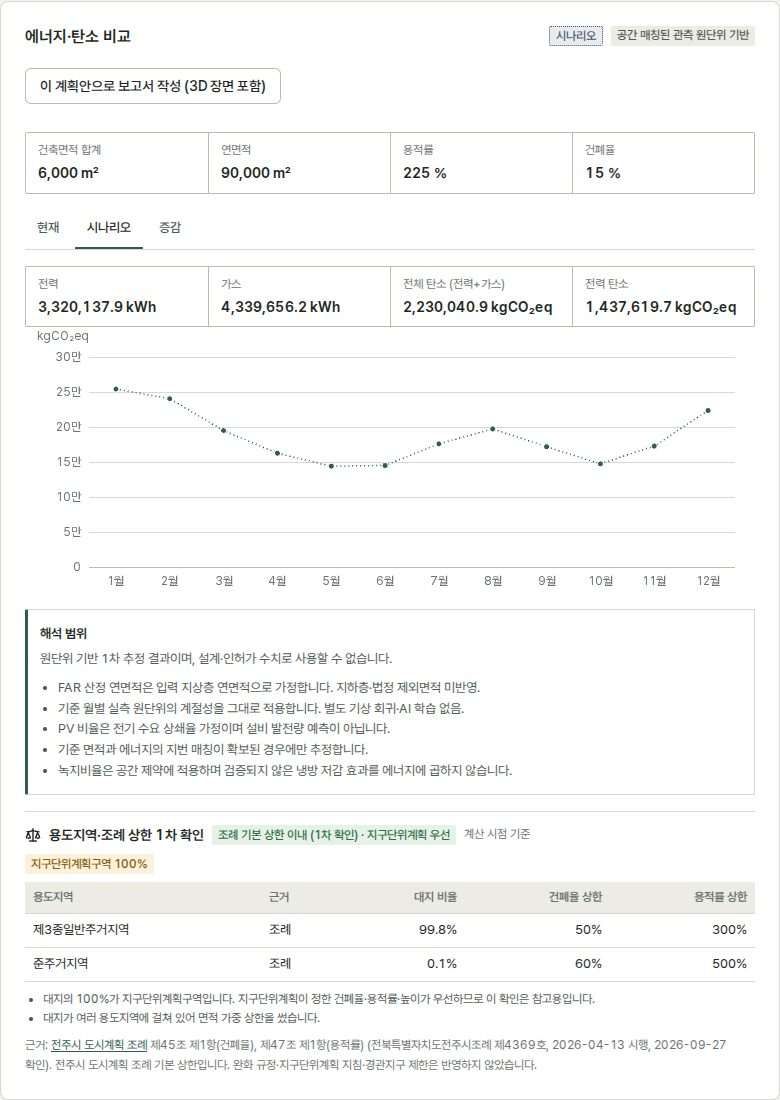
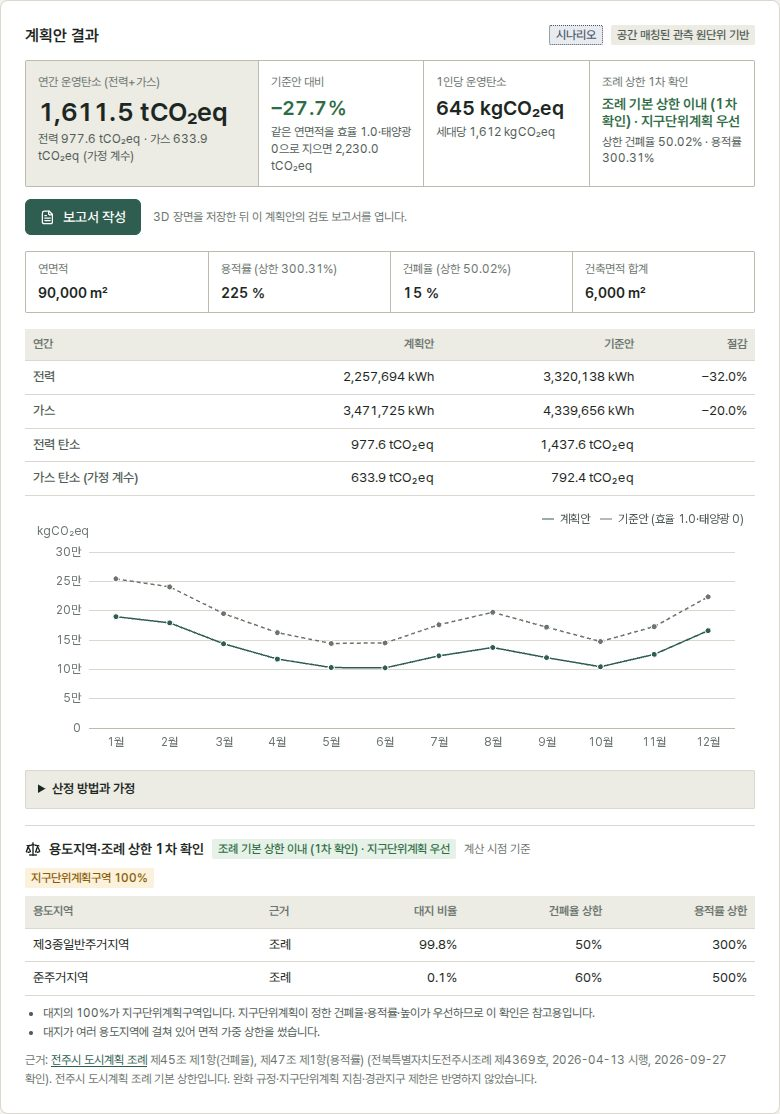
보고서 문장: 기준안과 같으면 '과 같습니다', 매뉴얼 그림(결과 패널·보고서·계획안 고르기·두 계획안) 교체, 10/14 PC 확인 기록
Claude-Session: https://claude.ai/code/session_01FHHEuZJMkY1PRrj63r7SZr

diff --git a/backend/app/reporting.py b/backend/app/reporting.py
@@ -141,7 +141,7 @@ def plan_sentence_facts(n,label,inputs,result):
     if carbon is not None and ref is not None:
         e=(annual.get('scenario') or {}).get('electricity_carbon_kg');g=carbon-e if e is not None else None
         parts=f"(전력 {e/1000:,.1f} t, 가스 {g/1000:,.1f} t 가정 계수)" if e is not None and g is not None else ''
-        verdict=f"보다 {abs(saving):.1f}% {'적습니다' if saving>=0 else '많습니다'}" if saving is not None else '와 같습니다'
+        verdict=('과 같습니다' if saving is None or abs(saving)<0.05 else f"보다 {abs(saving):.1f}% {'적습니다' if saving>0 else '많습니다'}")
         facts.append({'id':f'carbon_{n}','text':f"{label}의 연간 운영탄소는 {carbon/1000:,.1f} tCO2eq{parts}이며, 같은 연면적을 지역 관측 원단위 그대로 지을 때(기준안 {ref/1000:,.1f} t){verdict}."})
     elif carbon is not None and change is not None:   # plans saved before the reference plan existed
         facts.append({'id':f'carbon_{n}','text':f'{label}의 연간 운영탄소는 {carbon/1000:,.1f} tCO2eq이며 격자 현재 사용량 대비 변화는 {change/1000:+,.1f} t입니다.'})

diff --git a/docs/LIMITATIONS.md b/docs/LIMITATIONS.md
@@ -113,7 +113,8 @@ DB와 실행 기록(`492-collect-loop`)으로 확인한 결과입니다. 받지 
 **시뮬레이션 결과·검토 보고서 개편 (오후).** 사용자 요청(실무자가 볼 내용만, 격자 ID·근거 해시 제거, 3D 그림 포함).
 - 결과 패널: '현재/시나리오/증감' 탭을 없애고 연간 운영탄소·**기준안 대비 절감률**·1인당/세대당 탄소·조례 상한 판정을 먼저 보입니다. 기준안 = 같은 연면적을 효율 계수 1.0·태양광 0으로 지을 때(`annual.reference`, `savings_pct`). 격자의 현재 사용량과의 비교(`annual.current`·`difference`)는 결과에 그대로 있지만 화면에는 쓰지 않습니다(규모가 달라 감축으로 읽히던 문제).
 - 보고서: 핵심 결과 → 대상지 → 계획 개요 → 산정 → 상한 → 유의사항 → 출처의 7절. 대상지는 행정동 지명(`place`, 격자의 1% 이상을 덮는 행정동 최대 2개), 격자 ID·SGIS 1km 통계·모델 오차·근거 SHA-256은 싣지 않습니다(해시는 DB 스냅샷에 남음). 마크다운도 같은 구성입니다.
-- 한계: 10/14 이전에 저장한 계획안에는 기준안 값이 없어 '자료 없음'으로 나옵니다(다시 계산하면 생김). 사례 J13의 값(문장 수·장 수·유의사항 수)은 같고 문장만 바뀌어 근거 문장 규칙을 v3로 올렸습니다. 클라우드 단위 테스트는 PostGIS가 없어 보고서 API 테스트 4개(기존 3 + 새 1)를 PC에서만 확인합니다.
+- 한계: 10/14 이전에 저장한 계획안에는 기준안 값이 없어 '자료 없음'으로 나오고 요약 문장은 격자 현재 사용량 대비로 적힙니다(다시 계산하면 기준안이 생김). 사례 J13의 값(문장 수·장 수·유의사항 수)은 같고 문장만 바뀌어 근거 문장 규칙을 v3로 올렸습니다. 클라우드 단위 테스트는 PostGIS가 없어 보고서 API 테스트 4개(기존 3 + 새 1)를 PC에서만 확인합니다.
+- PC 확인(16시): 프런트 Vitest+빌드 통과, 컨테이너 pytest(domain·map_speed·reporting) 24개 통과, 사례 재계산에서 계획안·3D·보고서 사례(J06~J13, S03) 9개 일치. 지역 시뮬레이션 사례 16개는 10/08 뒤 자료(과거 연도·지번 배치)가 바뀌어 '자료 지문 다름'으로 나오며 이번 변경과 무관합니다(기준값 다시 기록 필요). 촬영: `data/ops/claude-runner/shots/report-1014c·d`, 매뉴얼 그림 m07c·m08a·m08b·m08c 교체.
 
 **K-apt 운영계정.**
 - 10/14 0시~9시 42분에 K-apt 7,240건을 받는 동안 `호출 제한`이 없었습니다. 개발계정 한도 5,000건을 넘었으므로 운영계정이 반영된 것으로 봅니다. 정확한 한도 숫자는 확인하지 못했습니다.
